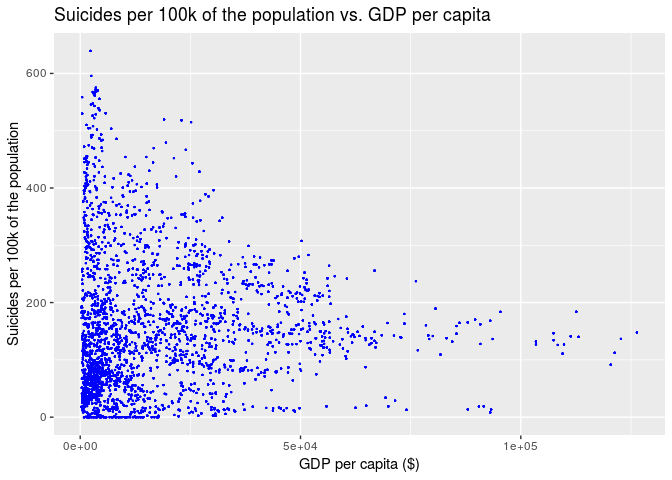
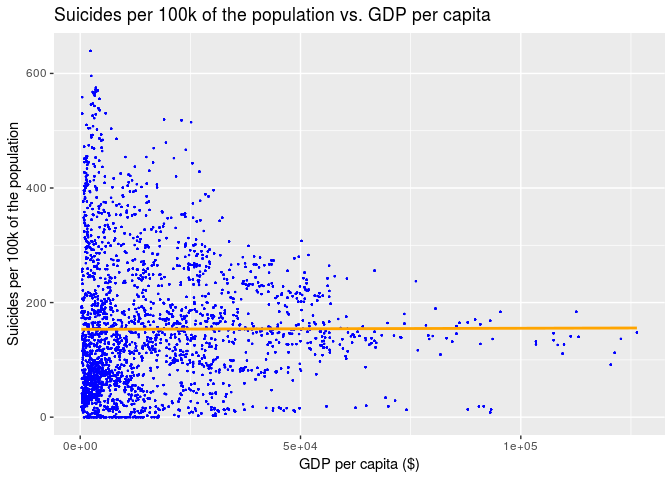
added linear model to gdp graph

Changed region(s): [[0.125, 0.6562, 0.9375, 0.6875]]

diff --git a/project/project.md b/project/project.md
@@ -20,6 +20,18 @@ end. The rest is up to you\!
 
 ![](project_files/figure-gfm/vis-suicide-gdp-per-capita-1.png)<!-- -->
 
+    ## # A tibble: 2 x 5
+    ##   term                    estimate std.error statistic p.value
+    ##   <chr>                      <dbl>     <dbl>     <dbl>   <dbl>
+    ## 1 (Intercept)          153.        0.940       163.      0    
+    ## 2 `gdp_per_capita ($)`   0.0000183 0.0000371     0.493   0.622
+
+    ## [1] 8.740802e-06
+
+Equation for the linear model is: (Suicides per 100k of the
+population-hat) = (1.533301e+02) + (1.830459e-05\*GDP per capita($))
+R-squared value is: 8.740802e-06
+
 ### Suicides and Generation/Age
 
 ### Suicides and Year
